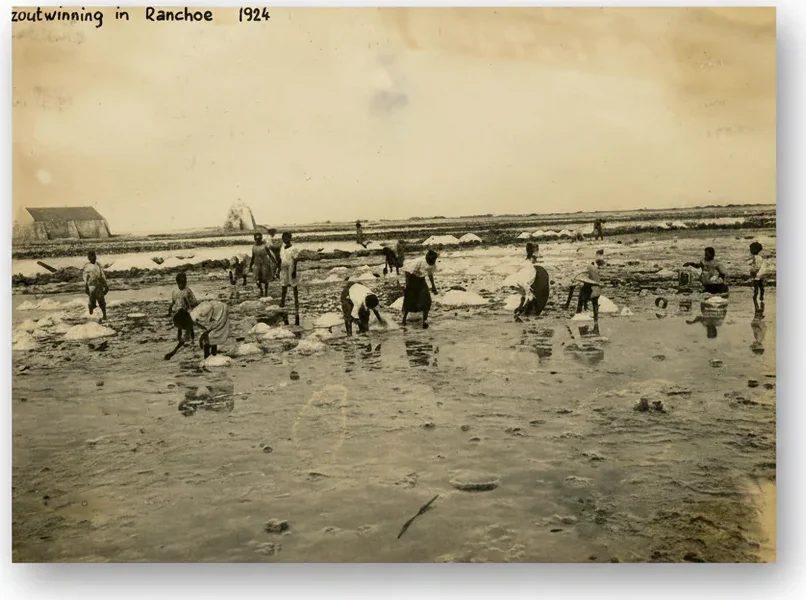
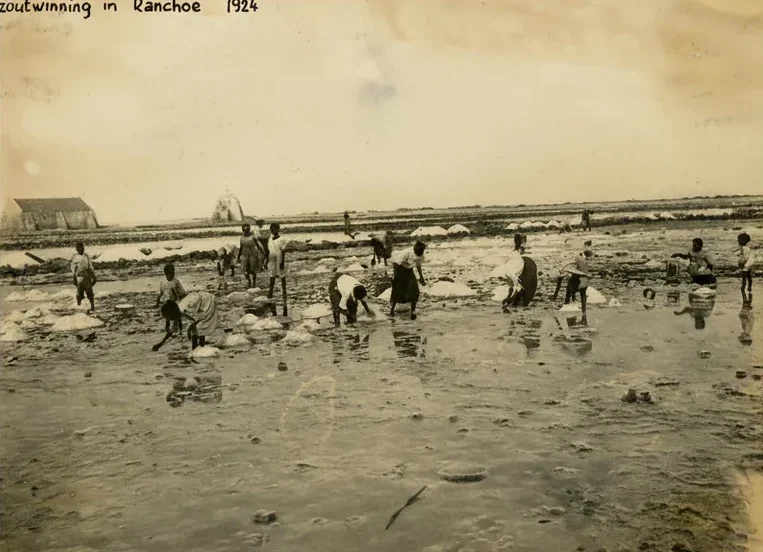
Fix visual issues found in the first real-render review
- Align product-card CTAs (flex column + mt-auto) and make prices legible
- Trust strip: drop opacity-60 wrapper that pushed text below AA contrast
- Stop the parked legal modal's shadow bleeding down the right page edge
- Comparison table on phones: sticky row labels, swipe cue, keyboard-
  reachable scroll region
- Re-crop Salina Ranchoe photo (baked-in scan margin/shadow), fix its
  "pictured above" caption, bump SW cache so returning visitors refetch
- Rewrite alt text after viewing each image
- Terms: prices include tax (matches owner's actual pricing)
- Newsletter: mailto fallback while Formspree ID is still a placeholder
- Scroll-spy: Contact becomes active at page bottom on tall screens

Claude-Session: https://claude.ai/code/session_01SWicJvBNiZjSGmsEnEMBRi

diff --git a/index.html b/index.html
@@ -362,6 +362,11 @@
 
         #legal-modal { transition: transform 0.4s cubic-bezier(0.16, 1, 0.3, 1); }
         .modal-open { transform: translateX(0) !important; }
+        /* While parked off-screen (translate-x-full), the panel's shadow-2xl bled ~40px back
+           into the viewport as a faint gray band down the right edge of every page section.
+           The id selector outranks Tailwind's .shadow-2xl regardless of stylesheet order.
+           (Not visibility:hidden — that would break the synchronous focus() on open.) */
+        #legal-modal:not(.modal-open) { box-shadow: none; }
 
         /* Graceful Image Reveal Engine */
         .lazy-blur {
@@ -505,7 +510,7 @@
         }
 
         /* Visible keyboard focus (previously relied on browser default only) */
-        a:focus-visible, button:focus-visible, input:focus-visible {
+        a:focus-visible, button:focus-visible, input:focus-visible, [tabindex="0"]:focus-visible {
             outline: 2px solid #0879ab;
             outline-offset: 3px;
             border-radius: 4px;
@@ -625,7 +630,7 @@
                 <h4 class="text-xl font-bold text-gray-900 mt-8 mb-4">3. Orders</h4>
                 <p class="mb-4">Once online ordering becomes available, your order is not accepted until we confirm it. Products purchased through the Services are for personal use only and may not be resold. Returns are handled in accordance with our Refund Policy.</p>
                 <h4 class="text-xl font-bold text-gray-900 mt-8 mb-4">4. Prices and billing</h4>
-                <p class="mb-4">Prices, discounts and promotions are subject to change without notice. Posted prices generally exclude applicable taxes and shipping, which will be calculated at checkout once online ordering is available. Once you can order through the Services, you'll be responsible for providing accurate payment information.</p>
+                <p class="mb-4">Prices, discounts and promotions are subject to change without notice. Posted prices include applicable taxes. Once online ordering is available, shipping will be calculated at checkout. Once you can order through the Services, you'll be responsible for providing accurate payment information.</p>
                 <h4 class="text-xl font-bold text-gray-900 mt-8 mb-4">5. Shipping and delivery</h4>
                 <p class="mb-4">Once online ordering is available, delivery times shown at checkout are estimates only, and we are not liable for delays outside our control. Title and risk of loss for products pass to you upon delivery to the shipping carrier.</p>
                 <h4 class="text-xl font-bold text-gray-900 mt-8 mb-4">6. Intellectual property</h4>
@@ -690,7 +695,7 @@
                 <div class="flex justify-between items-center h-20 sm:h-24 md:h-28">
 
                     <a href="#home" id="header-logo-link" tabindex="-1" class="flex-shrink-0 flex items-center z-10 hover:opacity-80 transition-all hover:scale-105 active:scale-95 pl-1">
-                        <img src="images/logo/arusalt-logo.png" alt="AruSalt Logo" decoding="async" class="h-14 sm:h-16 md:h-20 w-auto object-contain drop-shadow-[0_2px_8px_rgba(255,255,255,0.9)] translate-y-1">
+                        <img src="images/logo/arusalt-logo.png" alt="AruSalt home" decoding="async" class="h-14 sm:h-16 md:h-20 w-auto object-contain drop-shadow-[0_2px_8px_rgba(255,255,255,0.9)] translate-y-1">
                     </a>
 
                     <div class="hidden md:flex space-x-10">
@@ -745,7 +750,7 @@
 
     <!-- LAYER 1: BULLETPROOF FIXED BACKGROUND -->
     <div class="fixed-layer z-[-2] bg-black">
-        <img src="images/hero/aruba-coastline-aerial.webp" srcset="images/hero/aruba-coastline-aerial-768w.webp 768w, images/hero/aruba-coastline-aerial-1280w.webp 1280w, images/hero/aruba-coastline-aerial.webp 1920w" sizes="100vw" alt="Aruba Ocean" fetchpriority="high" decoding="async" class="w-full h-full object-cover opacity-65 ken-burns">
+        <img src="images/hero/aruba-coastline-aerial.webp" srcset="images/hero/aruba-coastline-aerial-768w.webp 768w, images/hero/aruba-coastline-aerial-1280w.webp 1280w, images/hero/aruba-coastline-aerial.webp 1920w" sizes="100vw" alt="" fetchpriority="high" decoding="async" class="w-full h-full object-cover opacity-65 ken-burns">
         <div class="cinematic-gradient"></div>
     </div>
 
@@ -864,7 +869,7 @@
                 <div class="grid md:grid-cols-2 gap-16 items-center">
                     <div class="order-2 md:order-1 relative animate-on-scroll delay-1">
                         <div class="aspect-[4/3] rounded-3xl overflow-hidden shadow-xl bg-gray-50 group">
-                            <img src="images/products/salt-crystals-macro.jpeg" srcset="images/products/salt-crystals-macro-480w.jpeg 480w, images/products/salt-crystals-macro-800w.jpeg 800w, images/products/salt-crystals-macro.jpeg 1000w" sizes="(min-width: 768px) 50vw, 100vw" class="w-full h-full object-cover transition duration-1000 group-hover:scale-105 lazy-blur" loading="lazy" decoding="async" alt="Salt Mesh Close Up">
+                            <img src="images/products/salt-crystals-macro.jpeg" srcset="images/products/salt-crystals-macro-480w.jpeg 480w, images/products/salt-crystals-macro-800w.jpeg 800w, images/products/salt-crystals-macro.jpeg 1000w" sizes="(min-width: 768px) 50vw, 100vw" class="w-full h-full object-cover transition duration-1000 group-hover:scale-105 lazy-blur" loading="lazy" decoding="async" alt="Close-up of coarse sea salt crystals drying on a mesh screen">
                         </div>
                     </div>
                     <div class="order-1 md:order-2 animate-on-scroll">
@@ -885,12 +890,18 @@
                     <span class="block text-xs font-semibold text-gray-500 uppercase tracking-[0.25em] mb-4">Know the difference</span>
                     <h2 id="salt-comparison-heading" class="text-3xl md:text-4xl font-bold text-gray-900">Not all salt is created equal</h2>
                     <div class="diamond-divider mt-6"><span class="diamond-mark"></span></div>
+                    <!-- Phones only: the table is min-w-[640px], so below sm it always scrolls sideways,
+                         and the cut-off columns alone didn't read as swipeable. Visual cue only
+                         (aria-hidden); AT users navigate the table by cells, not by swiping. -->
+                    <p class="sm:hidden mt-6 text-xs font-semibold uppercase tracking-widest text-gray-500 inline-flex items-center gap-2" aria-hidden="true">Swipe to compare <svg class="w-4 h-4" fill="none" stroke="currentColor" viewBox="0 0 24 24"><path stroke-linecap="round" stroke-linejoin="round" stroke-width="1.3" d="M17 8l4 4m0 0l-4 4m4-4H3"/></svg></p>
                 </div>
-                <div class="overflow-x-auto animate-on-scroll delay-1">
+                <!-- role/tabindex: a horizontally scrollable region must be keyboard-reachable
+                     (WCAG 2.1.1), otherwise keyboard users can't bring the off-screen columns into view. -->
+                <div class="overflow-x-auto animate-on-scroll delay-1" role="region" aria-labelledby="salt-comparison-heading" tabindex="0">
                     <table class="w-full min-w-[640px] border-collapse text-left" aria-labelledby="salt-comparison-heading">
                         <thead>
                             <tr class="border-b-2 border-gray-900">
-                                <th scope="col" class="py-4 pr-4 text-sm font-bold uppercase tracking-wider text-gray-500"></th>
+                                <th scope="col" class="sticky left-0 z-10 bg-[#f4f9fc] py-4 pr-4 text-sm font-bold uppercase tracking-wider text-gray-500"></th>
                                 <th scope="col" class="py-4 px-4 text-lg font-bold text-theme-blue">AruSalt</th>
                                 <th scope="col" class="py-4 px-4 text-lg font-bold text-gray-500">Table Salt</th>
                                 <th scope="col" class="py-4 px-4 text-lg font-bold text-gray-500">Kosher Salt</th>
@@ -898,25 +909,25 @@
                         </thead>
                         <tbody class="divide-y divide-gray-100">
                             <tr>
-                                <th scope="row" class="py-5 pr-4 text-sm font-semibold text-gray-900 align-top">How it's made</th>
+                                <th scope="row" class="sticky left-0 z-10 bg-[#f4f9fc] py-5 pr-4 text-sm font-semibold text-gray-900 align-top">How it's made</th>
                                 <td class="py-5 px-4 text-gray-600 align-top">Sun and wind evaporate seawater in open-air pans, with no boiling and no machinery</td>
                                 <td class="py-5 px-4 text-gray-500 align-top">Typically mined or produced by fast, industrial vacuum evaporation</td>
                                 <td class="py-5 px-4 text-gray-500 align-top">Usually mechanically evaporated, not sun-dried</td>
                             </tr>
                             <tr>
-                                <th scope="row" class="py-5 pr-4 text-sm font-semibold text-gray-900 align-top">Additives</th>
+                                <th scope="row" class="sticky left-0 z-10 bg-[#f4f9fc] py-5 pr-4 text-sm font-semibold text-gray-900 align-top">Additives</th>
                                 <td class="py-5 px-4 text-gray-600 align-top">None at all, no anti-caking or bleaching agents</td>
                                 <td class="py-5 px-4 text-gray-500 align-top">Often iodized, commonly includes anti-caking agents</td>
                                 <td class="py-5 px-4 text-gray-500 align-top">Generally additive-free, varies by brand</td>
                             </tr>
                             <tr>
-                                <th scope="row" class="py-5 pr-4 text-sm font-semibold text-gray-900 align-top">Texture</th>
+                                <th scope="row" class="sticky left-0 z-10 bg-[#f4f9fc] py-5 pr-4 text-sm font-semibold text-gray-900 align-top">Texture</th>
                                 <td class="py-5 px-4 text-gray-600 align-top">Moderately coarse, slightly moist, distinctive crunch</td>
                                 <td class="py-5 px-4 text-gray-500 align-top">Fine, uniform grains</td>
                                 <td class="py-5 px-4 text-gray-500 align-top">Coarse, flaky grains</td>
                             </tr>
                             <tr>
-                                <th scope="row" class="py-5 pr-4 text-sm font-semibold text-gray-900 align-top">Flavor</th>
+                                <th scope="row" class="sticky left-0 z-10 bg-[#f4f9fc] py-5 pr-4 text-sm font-semibold text-gray-900 align-top">Flavor</th>
                                 <td class="py-5 px-4 text-gray-600 align-top">Clean, briny-sweet, no aftertaste</td>
                                 <td class="py-5 px-4 text-gray-500 align-top">Can carry a chemical or metallic aftertaste</td>
                                 <td class="py-5 px-4 text-gray-500 align-top">Clean but milder, less mineral complexity</td>
@@ -936,43 +947,43 @@
             </div>
             
             <div class="grid grid-cols-1 md:grid-cols-2 gap-10 container mx-auto max-w-5xl mb-12">
-                <div class="bg-white rounded-[2rem] p-6 shadow-sm border border-gray-100 hover-lift group animate-on-scroll text-left">
+                <div class="bg-white rounded-[2rem] p-6 shadow-sm border border-gray-100 hover-lift group animate-on-scroll text-left flex flex-col">
                     <div class="aspect-[4/5] rounded-3xl overflow-hidden mb-6 bg-gray-50 flex items-center justify-center relative group-hover:shadow-lg transition-all duration-500">
                         <span class="absolute top-4 right-4 bg-white/95 backdrop-blur text-coral-contrast text-xs font-bold px-3 py-1 rounded-full shadow-sm z-20 uppercase tracking-wide flex items-center gap-1.5"><span class="w-1.5 h-1.5 bg-coral rounded-full inline-block"></span><span id="cms-seasalt-badge-text">In Stores</span></span>
 
-                        <img src="images/products/arusalt-pure-sea-salt-jar.webp" srcset="images/products/arusalt-pure-sea-salt-jar-480w.webp 480w, images/products/arusalt-pure-sea-salt-jar-800w.webp 800w, images/products/arusalt-pure-sea-salt-jar.webp 1086w" sizes="(min-width: 768px) 50vw, 100vw" alt="Pure Caribbean Sea Salt White Jar" loading="lazy" decoding="async" class="absolute inset-0 w-full h-full object-cover transition-opacity duration-700 ease-in-out group-hover:opacity-0 z-10 lazy-blur">
+                        <img src="images/products/arusalt-pure-sea-salt-jar.webp" srcset="images/products/arusalt-pure-sea-salt-jar-480w.webp 480w, images/products/arusalt-pure-sea-salt-jar-800w.webp 800w, images/products/arusalt-pure-sea-salt-jar.webp 1086w" sizes="(min-width: 768px) 50vw, 100vw" alt="AruSalt Pure Caribbean Sea Salt in a corked glass jar" loading="lazy" decoding="async" class="absolute inset-0 w-full h-full object-cover transition-opacity duration-700 ease-in-out group-hover:opacity-0 z-10 lazy-blur">
                         <img src="images/products/salt-crystals-macro.jpeg" srcset="images/products/salt-crystals-macro-480w.jpeg 480w, images/products/salt-crystals-macro-800w.jpeg 800w, images/products/salt-crystals-macro.jpeg 1000w" sizes="(min-width: 768px) 50vw, 100vw" alt="" aria-hidden="true" loading="lazy" decoding="async" class="absolute inset-0 w-full h-full object-cover transition-transform duration-1000 group-hover:scale-110 z-0 lazy-blur">
                         <div class="shimmer-sweep" aria-hidden="true"></div>
                     </div>
                     <h3 class="text-2xl font-bold mb-2 text-gray-900">AruSalt – Pure Caribbean Sea Salt</h3>
                     <p id="cms-seasalt-description" class="text-gray-600 leading-relaxed mb-4">Hand-harvested sea salt from the pristine waters of Aruba, naturally sun-dried by warm Caribbean sun and steady trade winds. Rich in essential minerals, with a clean, bright flavor and a subtle crunch. Best used as a finishing salt: sprinkle lightly just before serving to enhance flavor without overpowering the dish.</p>
-                    <p id="cms-seasalt-price" class="text-lg text-gray-500 mb-1">$29.00</p>
+                    <p id="cms-seasalt-price" class="mt-auto text-xl font-semibold text-gray-900 mb-1">$29.00</p>
                     <p id="cms-seasalt-netweight" class="text-xs uppercase tracking-widest text-gray-500 mb-6">Net weight: 30 g</p>
                     <a id="cms-seasalt-cta" href="#retailers" class="block w-full py-4 border-2 border-theme-blue text-theme-blue hover:bg-theme-blue hover:text-white rounded-full text-center uppercase text-sm font-bold tracking-wider transition-colors select-none">Find a Retailer</a>
                 </div>
 
-                <div class="bg-white rounded-[2rem] p-6 shadow-sm border border-gray-100 hover-lift group animate-on-scroll delay-1 text-left">
+                <div class="bg-white rounded-[2rem] p-6 shadow-sm border border-gray-100 hover-lift group animate-on-scroll delay-1 text-left flex flex-col">
                     <div class="aspect-[4/5] rounded-3xl overflow-hidden mb-6 bg-gray-50 flex items-center justify-center relative group-hover:shadow-lg transition-all duration-500">
                         <span class="absolute top-4 right-4 bg-white/95 backdrop-blur text-coral-contrast text-xs font-bold px-3 py-1 rounded-full shadow-sm z-20 uppercase tracking-wide flex items-center gap-1.5"><span class="w-1.5 h-1.5 bg-coral rounded-full inline-block"></span><span id="cms-bathsalt-badge-text">In Stores</span></span>
 
-                        <img src="images/products/arusalt-caribbean-bath-salt-jar.webp" srcset="images/products/arusalt-caribbean-bath-salt-jar-480w.webp 480w, images/products/arusalt-caribbean-bath-salt-jar-800w.webp 800w, images/products/arusalt-caribbean-bath-salt-jar.webp 1086w" sizes="(min-width: 768px) 50vw, 100vw" alt="Caribbean Bath Salt Layered Jar" loading="lazy" decoding="async" class="absolute inset-0 w-full h-full object-cover transition-opacity duration-700 ease-in-out group-hover:opacity-0 z-10 lazy-blur">
+                        <img src="images/products/arusalt-caribbean-bath-salt-jar.webp" srcset="images/products/arusalt-caribbean-bath-salt-jar-480w.webp 480w, images/products/arusalt-caribbean-bath-salt-jar-800w.webp 800w, images/products/arusalt-caribbean-bath-salt-jar.webp 1086w" sizes="(min-width: 768px) 50vw, 100vw" alt="AruSalt Caribbean Bath Salt in a corked jar, layered pink, yellow, blue and white" loading="lazy" decoding="async" class="absolute inset-0 w-full h-full object-cover transition-opacity duration-700 ease-in-out group-hover:opacity-0 z-10 lazy-blur">
                         <img src="images/products/bath-salt-blend-varieties-flatlay.webp" srcset="images/products/bath-salt-blend-varieties-flatlay-480w.webp 480w, images/products/bath-salt-blend-varieties-flatlay-800w.webp 800w, images/products/bath-salt-blend-varieties-flatlay.webp 1400w" sizes="(min-width: 768px) 50vw, 100vw" alt="" aria-hidden="true" loading="lazy" decoding="async" class="absolute inset-0 w-full h-full object-cover transition-transform duration-1000 group-hover:scale-110 z-0 lazy-blur">
                         <div class="shimmer-sweep" aria-hidden="true"></div>
                     </div>
                     <h3 class="text-2xl font-bold mb-2 text-gray-900">AruSalt – Caribbean Bath Salt</h3>
                     <p id="cms-bathsalt-description" class="text-gray-600 leading-relaxed mb-4">Handcrafted bath salt made from pure AruSalt sea salt, harvested and naturally sun-dried in Aruba. Enriched with carefully selected fragrances and colors inspired by the Caribbean, available in our signature scents, including Aruban Breeze, each with its own distinctive color palette for a relaxing, immersive bathing experience. Designed to dissolve smoothly, leaving skin refreshed and transforming every bath into a moment of island escape.</p>
-                    <p id="cms-bathsalt-price" class="text-lg text-gray-500 mb-1">$49.00</p>
+                    <p id="cms-bathsalt-price" class="mt-auto text-xl font-semibold text-gray-900 mb-1">$49.00</p>
                     <p id="cms-bathsalt-netweight" class="text-xs uppercase tracking-widest text-gray-500 mb-6">Net weight: 250 g</p>
                     <a id="cms-bathsalt-cta" href="#retailers" class="block w-full py-4 border-2 border-theme-blue text-theme-blue hover:bg-theme-blue hover:text-white rounded-full text-center uppercase text-sm font-bold tracking-wider transition-colors select-none">Find a Retailer</a>
                 </div>
             </div>
 
-            <div class="container mx-auto max-w-4xl flex flex-col md:flex-row justify-center items-center gap-6 md:gap-12 opacity-60">
-                <p class="text-sm font-semibold tracking-wider text-gray-600 uppercase flex items-center gap-2">
+            <div class="container mx-auto max-w-4xl flex flex-col md:flex-row justify-center items-center gap-6 md:gap-12">
+                <p class="text-sm font-semibold tracking-wider text-gray-500 uppercase flex items-center gap-2">
                     <svg class="w-5 h-5 text-gray-900" fill="none" stroke="currentColor" viewBox="0 0 24 24" aria-hidden="true"><path stroke-linecap="round" stroke-linejoin="round" stroke-width="1.3" d="M5 3v4M3 5h4M6 17v4m-2-2h4m5-16l2.286 6.857L21 12l-5.714 2.143L13 21l-2.286-6.857L5 12l5.714-2.143L13 3z"></path></svg>
                     100% Pure & Natural
                 </p>
-                <p class="text-sm font-semibold tracking-wider text-gray-600 uppercase flex items-center gap-2">
+                <p class="text-sm font-semibold tracking-wider text-gray-500 uppercase flex items-center gap-2">
                     <svg class="w-5 h-5 text-gray-900" fill="none" stroke="currentColor" viewBox="0 0 24 24" aria-hidden="true"><path stroke-linecap="round" stroke-linejoin="round" stroke-width="1.3" d="M17.657 16.657L13.414 20.9a1.998 1.998 0 01-2.827 0l-4.244-4.243a8 8 0 1111.314 0z"></path><path stroke-linecap="round" stroke-linejoin="round" stroke-width="1.3" d="M15 11a3 3 0 11-6 0 3 3 0 016 0z"></path></svg>
                     Sourced in Aruba
                 </p>
@@ -1106,12 +1117,12 @@
                 <div class="grid md:grid-cols-2 gap-16 items-center mb-32">
                     <div class="order-2 md:order-1 animate-on-scroll relative group">
                         <div class="aspect-[4/3] rounded-3xl overflow-hidden shadow-xl bg-gray-50 border border-gray-100">
-                            <img src="images/history/salina-ranchoe-salt-flats-1924.webp" srcset="images/history/salina-ranchoe-salt-flats-1924-480w.webp 480w, images/history/salina-ranchoe-salt-flats-1924-800w.webp 800w, images/history/salina-ranchoe-salt-flats-1924.webp 806w" sizes="(min-width: 768px) 50vw, 100vw" loading="lazy" decoding="async" class="w-full h-full object-cover transition duration-1000 group-hover:scale-105 lazy-blur" alt="Salina Ranchoe 1924 people dumping salt">
+                            <img src="images/history/salina-ranchoe-salt-flats-1924.webp" srcset="images/history/salina-ranchoe-salt-flats-1924-480w.webp 480w, images/history/salina-ranchoe-salt-flats-1924.webp 763w" sizes="(min-width: 768px) 50vw, 100vw" loading="lazy" decoding="async" class="w-full h-full object-cover object-left transition duration-1000 group-hover:scale-105 lazy-blur" alt="Harvesters gathering salt by hand in the shallow flats of Salina Ranchoe, 1924">
                         </div>
                     </div>
                     <div class="order-1 md:order-2 animate-on-scroll delay-1">
                         <h3 class="text-3xl font-bold mb-6 text-gray-900">Salina Ranchoe</h3>
-                        <p class="mb-6 text-gray-600 text-lg leading-relaxed">For generations, salt was harvested across Aruba, from its rugged rocky coastline to natural salinas such as Salina Ranchoe (pictured above) in Oranjestad. These shallow salt ponds created the ideal conditions for seawater to evaporate naturally under the Caribbean sun, leaving behind bright white salt crystals ready to be collected by hand.</p>
+                        <p class="mb-6 text-gray-600 text-lg leading-relaxed">For generations, salt was harvested across Aruba, from its rugged rocky coastline to natural salinas such as Salina Ranchoe in Oranjestad, pictured here in 1924. These shallow salt ponds created the ideal conditions for seawater to evaporate naturally under the Caribbean sun, leaving behind bright white salt crystals ready to be collected by hand.</p>
                         <p class="text-gray-600 text-lg leading-relaxed">Historical records show that Aruba had seven natural salt pans by 1816, including Salina Ranchoe. Unlike the large commercial salt works on Bonaire, Aruba's salt production was relatively small and intended primarily for local use.</p>
                     </div>
                 </div>
@@ -1124,7 +1135,7 @@
                     </div>
                     <div class="animate-on-scroll delay-1 relative group">
                         <div class="aspect-[4/3] rounded-3xl overflow-hidden shadow-xl bg-gray-50 border border-gray-100">
-                            <img src="images/history/aruba-salt-harvesters-group-portrait-1923.jpg" srcset="images/history/aruba-salt-harvesters-group-portrait-1923-480w.jpg 480w, images/history/aruba-salt-harvesters-group-portrait-1923.jpg 700w" sizes="(min-width: 768px) 50vw, 100vw" loading="lazy" decoding="async" class="w-full h-full object-cover transition duration-1000 group-hover:scale-105 lazy-blur" alt="The locals posing on a pile of salt, 1923">
+                            <img src="images/history/aruba-salt-harvesters-group-portrait-1923.jpg" srcset="images/history/aruba-salt-harvesters-group-portrait-1923-480w.jpg 480w, images/history/aruba-salt-harvesters-group-portrait-1923.jpg 700w" sizes="(min-width: 768px) 50vw, 100vw" loading="lazy" decoding="async" class="w-full h-full object-cover transition duration-1000 group-hover:scale-105 lazy-blur" alt="Local salt harvesters posing on top of a salt pile, 1923">
                         </div>
                     </div>
                 </div>
@@ -1137,7 +1148,7 @@
                     </div>
                     <div class="order-1 md:order-2 animate-on-scroll delay-1">
                         <h3 class="text-3xl font-bold mb-6 text-gray-900">Commercial decline</h3>
-                        <p class="mb-6 text-gray-600 text-lg leading-relaxed">Commercial salt harvesting gradually disappeared during the twentieth century, but the knowledge and appreciation for naturally harvested sea salt never faded. At AruSalt, we are proud to continue this tradition by combining centuries old salt farming techniques with modern quality standards. We still rely on the same natural elements that made salt harvesting possible for the old timers.</p>
+                        <p class="mb-6 text-gray-600 text-lg leading-relaxed">Commercial salt harvesting gradually disappeared during the twentieth century, but the knowledge and appreciation for naturally harvested sea salt never faded. At AruSalt, we are proud to continue this tradition by combining centuries-old salt farming techniques with modern quality standards. We still rely on the same natural elements that made salt harvesting possible for the old-timers.</p>
                         <p class="text-xl font-semibold text-gray-900 italic leading-relaxed border-l-4 border-coral pl-4">Every crystal of AruSalt is a tribute to Aruba's rich salt heritage, bringing an authentic piece of the island's history to tables around the world.</p>
                     </div>
                 </div>
@@ -1238,7 +1249,9 @@
             <div class="md:col-span-2">
                 <h3 class="text-2xl font-bold mb-4 text-white">Join AruSalt</h3>
                 <p id="cms-newsletter-blurb" class="text-gray-400 mb-6 max-w-sm leading-relaxed">Get exclusive recipes, flavor inspiration, and stories from Aruba.</p>
-                <!-- NOTE: action still points at a placeholder ID — swap in your real Formspree endpoint (or any POST endpoint) before launch, or signups will silently fail. -->
+                <!-- NOTE: action still points at a placeholder ID. Until the real Formspree endpoint is
+                     swapped in, the submit handler detects the placeholder and falls back to a
+                     pre-filled mailto: to info@arusalt.com instead of POSTing (see the script). -->
                 <form id="newsletter-form" action="https://formspree.io/f/YOUR_FORM_ID" method="POST" class="max-w-md">
                     <div class="flex gap-2">
                         <label for="newsletter-email" class="sr-only">Email address</label>
@@ -1366,6 +1379,12 @@
                         current = section.getAttribute("id");
                     }
                 });
+                // The footer is shorter than most viewports, so on tall screens the page runs out
+                // of scroll before it ever crosses the 300px trigger line above; "Contact" could
+                // never become active. At the very bottom, the last section is the current one.
+                if (sections.length && window.innerHeight + window.scrollY >= document.documentElement.scrollHeight - 2) {
+                    current = sections[sections.length - 1].getAttribute("id");
+                }
 
                 navLinks.forEach(link => {
                     const isActive = link.getAttribute("href").includes(current);
@@ -1380,12 +1399,35 @@
             const submitBtn = document.getElementById('newsletter-submit');
             const message = document.getElementById('newsletter-message');
             if (form && submitBtn && message) {
+                // Until a real Formspree form ID replaces the placeholder in the action URL, every
+                // POST would fail and show visitors an error. Instead, hand the signup to the
+                // visitor's email app as a pre-filled message to info@arusalt.com, so the lead
+                // still reaches the business. Switches itself off once the real ID is in place.
+                const endpointConfigured = !(form.getAttribute('action') || '').includes('YOUR_FORM_ID');
+
                 form.addEventListener('submit', async (e) => {
                     e.preventDefault();
+                    message.classList.remove('hidden', 'text-red-400', 'text-emerald-400', 'text-gray-300');
+
+                    if (!endpointConfigured) {
+                        const email = (form.elements.email && form.elements.email.value) || '';
+                        window.location.href = 'mailto:info@arusalt.com'
+                            + '?subject=' + encodeURIComponent('Newsletter signup')
+                            + '&body=' + encodeURIComponent('Hi AruSalt, please add ' + email + ' to your newsletter. Thank you!');
+                        // Built with DOM nodes, not innerHTML, so nothing user-typed is ever parsed as HTML
+                        message.textContent = "Almost there! Your email app should open with your signup ready to send. If it doesn't, email us at ";
+                        const fallbackLink = document.createElement('a');
+                        fallbackLink.href = 'mailto:info@arusalt.com';
+                        fallbackLink.textContent = 'info@arusalt.com';
+                        fallbackLink.className = 'underline hover:text-white';
+                        message.append(fallbackLink, '.');
+                        message.classList.add('text-gray-300');
+                        return;
+                    }
+
                     submitBtn.innerHTML = 'Sending...';
                     submitBtn.classList.add('opacity-70', 'cursor-not-allowed');
                     submitBtn.disabled = true;
-                    message.classList.remove('hidden', 'text-red-400', 'text-emerald-400');
 
                     try {
                         const response = await fetch(form.action, {

diff --git a/sw.js b/sw.js
@@ -1,4 +1,4 @@
-const CACHE_NAME = 'arusalt-v2';
+const CACHE_NAME = 'arusalt-v3';
 const CORE_ASSETS = [
     '/',
     '/index.html',

diff --git a/CLAUDE.md b/CLAUDE.md
@@ -73,6 +73,7 @@ Standard flow for any non-trivial change: make the edit → relevant specialist 
 - `html { scroll-padding-top }` (used so anchor-jumps like "Find a Retailer" land below the fixed header instead of underneath it) was `140px`, calibrated too low for real notch/Dynamic-Island phones: the marquee bar's `padding-top: max(env(safe-area-inset-top), 0.6rem)` can add up to ~59px on those devices, on top of its own text and the `h-20` nav row, pushing the real mobile header height to ~170px+ — anchor-scroll targets were landing partly hidden under the header. Bumped to `175px`, sized for that worst-case mobile header height (only a single global value, since `scroll-padding-top` can't easily read `env()`/breakpoint state itself); this over-shoots slightly on desktop's shorter header (~150px) but a little extra gap there is far less noticeable than content being covered by the header on mobile. If the header's height recipe changes (marquee padding, nav `h-20/24/28`), recompute this against the tallest real mobile case rather than eyeballing it.
 - `focus:outline-none` on a Tailwind utility class beats the site's global `a:focus-visible, button:focus-visible, input:focus-visible` outline rule by CSS specificity (a class+pseudo-class selector outranks an element+pseudo-class one), regardless of source order. Don't add `focus:outline-none` to a focusable element unless it also supplies its own equally-visible focus style — verify with `getComputedStyle(el).outlineColor` after a real focus, not just visually.
 - **No em dashes (—) in visitor-facing copy** — they read as an AI-writing tell. Fine in code/HTML comments (developer-only), never in text a visitor reads (headings, paragraphs, button/link text, aria-labels, alt text, JSON-LD `text`/`name` fields, `content/site.json`). Rewrite the sentence instead (a period, comma, colon, or "and"/"but" usually works better anyway). A full sweep was done once already; don't reintroduce the pattern in new copy.
+- **Rendering the site for real in the cloud sandbox:** the headless browser can't reach `cdn.tailwindcss.com` or Google Fonts directly, so earlier rounds verified layout by hand-computing Tailwind spacing (and missed several purely visual bugs as a result). What works: `curl` the Tailwind CDN script, the Google Fonts CSS (send a desktop Chrome User-Agent so it returns woff2), and every `fonts.gstatic.com` URL inside that CSS into the scratchpad; serve the repo with `python3 -m http.server`; then in Playwright (global npm install, `executablePath` under `/opt/pw-browsers/chromium-*/chrome-linux/chrome`) `page.route('**/*')` to fulfill those three hosts from the local copies and abort everything else external. Sanity check: `getComputedStyle(document.querySelector('#site-header nav > div')).display === 'flex'` proves Tailwind ran. Full-page screenshots show the `fixed` hero background only in the first viewport (black behind the hero text/closing CTA is a capture artifact, not a bug); use viewport screenshots at scroll positions for those, and inject `html{scroll-behavior:auto!important}` before scripted scrolling. PIL may not be installed; Chromium's canvas (`drawImage` + `toDataURL('image/webp', q)`) works for crops/resizes.
 - **Responsive images:** most photographic `<img>` tags carry `srcset`/`sizes` (480w/800w card-size variants, plus 768w/1280w for the full-bleed hero background) generated as `{basename}-{width}w.{ext}` alongside the original file, which stays as the largest/fallback source. When adding a new photo used at a "card" size (roughly half of a `max-w-5xl`/`max-w-6xl` 2-column grid), follow the same pattern: generate 480w and 800w variants, add `srcset` + `sizes="(min-width: 768px) 50vw, 100vw"` (adjust the `sizes` value if the layout differs). The two logo `<img>` tags are the deliberate exception — already sized correctly for their one use case, no variants needed.
 
 ## Current priority order
@@ -95,3 +96,4 @@ Standard flow for any non-trivial change: make the edit → relevant specialist 
 16. Resolved: a keyword-targeted SEO pass after the owner asked to rank for "sea salt Aruba" and tourist-intent searches (a 41-phrase keyword list across branded/product/gift-souvenir/location/heritage/sustainability clusters was drafted first to guide the changes). Title tag tightened to `AruSalt - Hand-Harvested Sea Salt from Aruba` (first landed on adding "& Gifts" to the title for gift-intent coverage, but a `copy-auditor` pass caught that "Sea Salt & Gifts" reads as a second product category AruSalt doesn't have, so it was reverted); meta description rewritten to cover the "sold at retail partners near Palm Beach... gift or souvenir" angle without overclaiming online availability; `og:description`/`twitter:description` were initially left on stale pre-SEO-pass copy and had to be brought in line with the new meta description in a follow-up fix (also fixed a leftover "finishing salt" (singular product) overclaim in those two tags matching the same fix already applied to the meta description). Added a 7th FAQ entry, "Does AruSalt make a good souvenir or gift from Aruba?", synced verbatim between the visible accordion and the FAQPage JSON-LD (matching the existing pattern of an in-HTML link to `#retailers` that the JSON-LD twin renders as plain text) — this directly targets the gift/souvenir search cluster in a form Google can surface as a rich FAQ result, rather than trying to cram every keyword into the title tag. Flagged to the owner as the highest-leverage next step, since it's outside what editing this repo can achieve: a Google Business Profile listing (local-intent searches like "sea salt Aruba" often surface the Maps/Local Pack ahead of organic results, and this site has no listing) and backlinks from the three retail partners' own websites (none currently appear to link back to arusalt.com) — both real off-page factors, not something an on-page SEO pass can fix.
 17. Resolved: a footer bug where the "Customer Help" column's "Contact" link (`href="#contact"`) was self-referential (it lived inside the very `<footer id="contact">` element it pointed at), so clicking it did nothing. Converted to the same `.policy-link` button pattern already used by the footer's other working policy triggers, opening the legal modal's Contact panel (phone/email/address) instead. Also resolved: the floating `#back-to-top` button and `#whatsapp-widget` were both anchored to the bottom-left/right independently, causing back-to-top to visually collide with retailer cards' left-aligned "Visit site"/"Directions" link text at some scroll positions; moved back-to-top to stack above WhatsApp on the right (see the dedicated ground-rule bullet above). Also resolved: anchor-scroll targets (e.g. "Find a Retailer") were landing partly under the fixed header on notch/Dynamic-Island mobile devices; `scroll-padding-top` recalculated against the true worst-case mobile header height (see the dedicated ground-rule bullet above). Also resolved, completing the CTA-button item flagged in item 15: the three different "Find a Retailer" button treatments (`rounded-xl` outlined blue vs `rounded-full` solid coral vs `rounded-full` solid white with inconsistent uppercase) were unified to a single `rounded-full` + `uppercase text-sm tracking-wid(er/e)` treatment across all four instances (both product cards, the Gift Banner, and the closing "Bring the Island Home" CTA), each keeping its own existing color style (outlined blue / solid coral / solid white) since that hierarchy still reads as intentional, not the inconsistency being fixed. GitHub Pages' custom-domain HTTPS also got unstuck this round (was showing "Enforce HTTPS: certificate not yet issued" indefinitely despite correct DNS) via the standard remove-and-re-add-custom-domain workaround; verified live afterward via `curl` showing a valid Let's Encrypt cert and a working HTTP→HTTPS redirect. Not a code change, so no repo artifact, but noted here since it was an open item this round.
 18. Resolved from a fresh full-site audit pass (one real bug plus polish, all shipped with explicit go-ahead): `404.html`'s favicon and diamond-icon references were relative paths, but GitHub Pages serves `404.html` for any missing URL including nested ones (`/foo/bar`), where relative paths resolve against the requested directory and break — changed to root-absolute `/images/logo/...` paths; `404.html`'s own private style block also still used the old `#0ea5e9` blue (it was missed by item 6's site-wide contrast pass since it has its own CSS) — now `#0879ab`, and note for the future: **`404.html` duplicates a small subset of the design system, so any site-wide color/style change needs to be checked there too.** `og:image`/`twitter:image` now point at a new dedicated `images/hero/aruba-coastline-aerial-og.jpg` (1200×630 JPEG crop of the coastline photo, with `og:image:type`/`width`/`height` meta added) because WhatsApp and iMessage link previews are unreliable with webp og:images, and WhatsApp is this business's primary channel — a deliberate new-image-file exception with go-ahead; the page itself still uses the webp everywhere. FAQ answer 4's hardcoded prices ("30 g, $29.00" / "250 g, $49.00") were removed from both the visible accordion and its JSON-LD twin (kept verbatim-synced) since CMS price edits sync the product cards and both schema blocks but not the FAQ, which would silently drift — the answer now says "(30 g)" / "(250 g)" and points at the shop section "for current prices" (net weights kept: also CMS-editable in theory, but physically tied to the jars and far less likely to change). The CMS retailer-grid hydration was generating Directions links as `name + ' Aruba'`, silently replacing the static cards' curated Google Maps queries on every load — it now mirrors the banner matcher's pattern (`/hilton/i` → "Hilton Aruba Caribbean Resort", `/marriott/i` → "Aruba Marriott Resort", else `name + ' Aruba'`); keep all three name-matchers (banner, maps query) in sync if a retailer is ever renamed or added. `#wa-nudge` gained `aria-hidden="true"` (it hides via `opacity-0`, which left its text permanently readable to screen readers even while invisible; the WhatsApp button has its own aria-label). The preloader now has a 4-second fail-safe `setTimeout` alongside `window.onload` (onload waits for every subresource, so one stalled image on a slow connection could previously hold visitors on the preloader indefinitely). `sitemap.xml`'s stale `lastmod` bumped. Flagged but deliberately not changed: the mobile menu's "Contact" link is styled `text-theme-blue` while its four siblings are `text-gray-900`, and the desktop nav doesn't differentiate it — possibly a leftover, possibly deliberate emphasis; owner's call, left as-is.
+19. Resolved from the first real-render visual review (see the "Rendering the site for real" ground rule; every earlier round could only reason about layout from code): product cards were equal-height grid items but their price/CTA block floated with the description length, so the two "Find a Retailer" buttons sat ~52px apart on desktop; cards are now `flex flex-col` with `mt-auto` on the price, and the price itself was promoted from `text-lg text-gray-500` (the faintest text on the card) to `text-xl font-semibold text-gray-900`. The "100% Pure & Natural / Sourced in Aruba" trust strip sat inside an `opacity-60` wrapper that dropped its gray-600 text to ~2.8:1; opacity removed, text now gray-500 (~4.8:1). The legal modal's `shadow-2xl` was casting a ~40px gray band down the right edge of every section while the panel sat parked off-screen (`translate-x-full`); fixed with `#legal-modal:not(.modal-open) { box-shadow: none; }` (deliberately not `visibility: hidden`, which would break the synchronous `focus()` on open, per the double-rAF ground rule). The Salt comparison table was cut off mid-column on phones with no sign it scrolled; row labels are now `sticky left-0` with the section-alt background, a phones-only "Swipe to compare" cue sits under the heading (`aria-hidden`), and the scroller is a keyboard-reachable `role="region"` with `tabindex="0"` (global focus-visible selector extended with `[tabindex="0"]`). The Salina Ranchoe archival photo still had its scanned paper margin and baked-in drop shadow on the right and bottom edges (item 12's crop missed them); re-cropped in place by measuring per-row/column texture (photo spans x 12-775, y ~7-562 of the 806x600 source), kept the handwritten "zoutwinning in Ranchoe 1924" caption, regenerated the 480w variant, removed the now-upscale-only 800w variant (srcset is now 480w + 763w), and added `object-left` so the slightly-wider-than-4:3 image crops on its plain right side rather than through the caption; `sw.js` `CACHE_NAME` bumped to `arusalt-v3` since that image changed in place under the same filename. Its copy said "(pictured above)", which was wrong on both layouts (photo is to the left on desktop; on mobile the photo directly above is a different, modern one) and now reads "pictured here in 1924". Alt text rewritten after actually viewing each image (the fixed hero backdrop is now `alt=""` as decorative; the header logo link's image is "AruSalt home"). Terms section 4 said posted prices "generally exclude applicable taxes", contradicting the owner's stated tax-inclusive pricing; now "Posted prices include applicable taxes." Newsletter: while the Formspree action still contains `YOUR_FORM_ID`, submit no longer POSTs into a guaranteed error; it opens a pre-filled `mailto:info@arusalt.com` signup and shows a status message with a fallback link, and switches itself off automatically once a real form ID is set. Scroll-spy: on tall viewports the short footer could never cross the 300px trigger line, so "Contact" never lit up; at the page bottom the last section now counts as current. Copy nits: "centuries-old", "old-timers".
